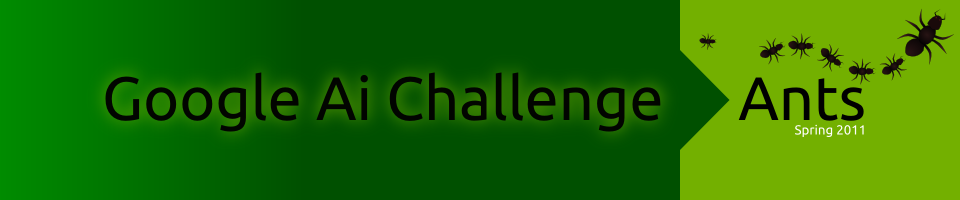
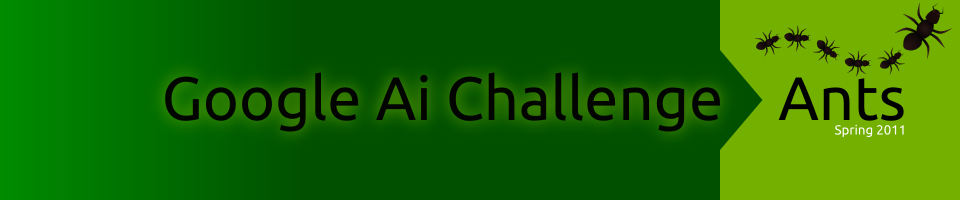
modified the navbar to be narrower

Changed region(s): [[0.0938, 0.0, 1.0, 1.0]]

diff --git a/site/index.html b/site/index.html
@@ -25,25 +25,31 @@
             </div>
             <div id="navbar">
                 <ul>
-                <li class="linkTitle">Overview</li>
-                <hr class="divider" />
-                <li class="link"><a href="http://google.ca">Home</a></li>
-                <li class="link"><a href="http://google.ca">Current Rankings</a></li>
-                <li class="link"><a href="http://google.ca">Problem Description</a></li>
-                <li class="link"><a href="http://google.ca">Contest Rules</a></li>
-                <li class="linkTitle">Getting Started</li>
-                <hr class="divider" />
-                <li class="link"><a href="http://google.ca">Create Your Account</a></li>
-                <li class="link"><a href="http://google.ca">Five Minute Quickstart Guide</a></li>
-                <li class="link"><a href="http://google.ca">Starter Packages</a></li>
-                <li class="link"><a href="http://google.ca">Tutorials &amp; Strategy Guides</a></li>
-                <li class="link"><a href="http://google.ca">Game Specification</a></li>
-                <li class="linkTitle">Help</li>
-                <hr class="divider" />
-                <li class="link"><a href="http://google.ca">Frequently Asked Questions</a></li>
-                <li class="link"><a href="http://google.ca">Forum</a></li>
-                <li class="link"><a href="http://google.ca">IRC (Webclient)</a></li>
-               </ul>
+                    <li class="linkTitle">Overview</li>
+                    <hr class="divider" />
+                    <li class="link"><a href="http://google.ca">Home</a></li>
+                    <li class="link"><a href="http://google.ca">Current Rankings</a></li>
+                    <li class="link"><a href="http://google.ca">Problem Description</a></li>
+                    <li class="link"><a href="http://google.ca">Contest Rules</a></li>
+                    <li class="linkTitle">Getting Started</li>
+                    <hr class="divider" />
+                    <li class="link"><a href="http://google.ca">Create Your Account</a></li>
+                    <li class="link"><a href="http://google.ca">Five Minute Quickstart Guide</a></li>
+                    <li class="link"><a href="http://google.ca">Starter Packages</a></li>
+                    <li class="link"><a href="http://google.ca">Tutorials &amp; Strategy Guides</a></li>
+                    <li class="link"><a href="http://google.ca">Game Specification</a></li>
+                    <li class="linkTitle">Help</li>
+                    <hr class="divider" />
+                    <li class="link"><a href="http://google.ca">Frequently Asked Questions</a></li>
+                    <li class="link"><a href="http://google.ca">Forum</a></li>
+                    <li class="link"><a href="http://google.ca">IRC (Webclient)</a></li>
+                    <form name="user_search_form" method="get" action="find_user.php">
+                        <li class="linkTitle">User Search:</li>
+                        <hr class="divider">
+                        <li class="link"><input name="username" type="text" id="userform">
+                        <input type="submit" name="search" value="Go"></li>
+                    </form>
+                </ul>
             </div>
         </div>
         <div id="footer">

diff --git a/site/css/main.css b/site/css/main.css
@@ -21,8 +21,8 @@ p{
 
 #navbar{
     float:right;
-    width:240px;
-    min-height:400px;
+    width:200px;
+    min-height:600px;
     padding:0px 20px 20px 20px;
     background-color:#73b000;
 }
@@ -35,23 +35,29 @@ p{
     border:0px;
 }
 
+#userform{
+    width:120px;
+}
+
 .link{
     padding:4px 0px 4px 20px;
     list-style-type:none;
+    font-size:14px;
 }
 .linkTitle{
     list-style-type:none;
-    font-size:18px;
+    font-size:14px;
+    font-weight:bold;
     padding:4px 0px 2px 0px;
 }
 
 #content{
-    font-size:12px;
+    font-size:14px;
     float:left;
     text-align:justify;
-    width:640px;
-    min-height:380px;
-    padding:20px 20px 20px 20px;
+    width:692px;
+    min-height:580px;
+    padding:14px;
     background-color:#AFD861;
 }
 
